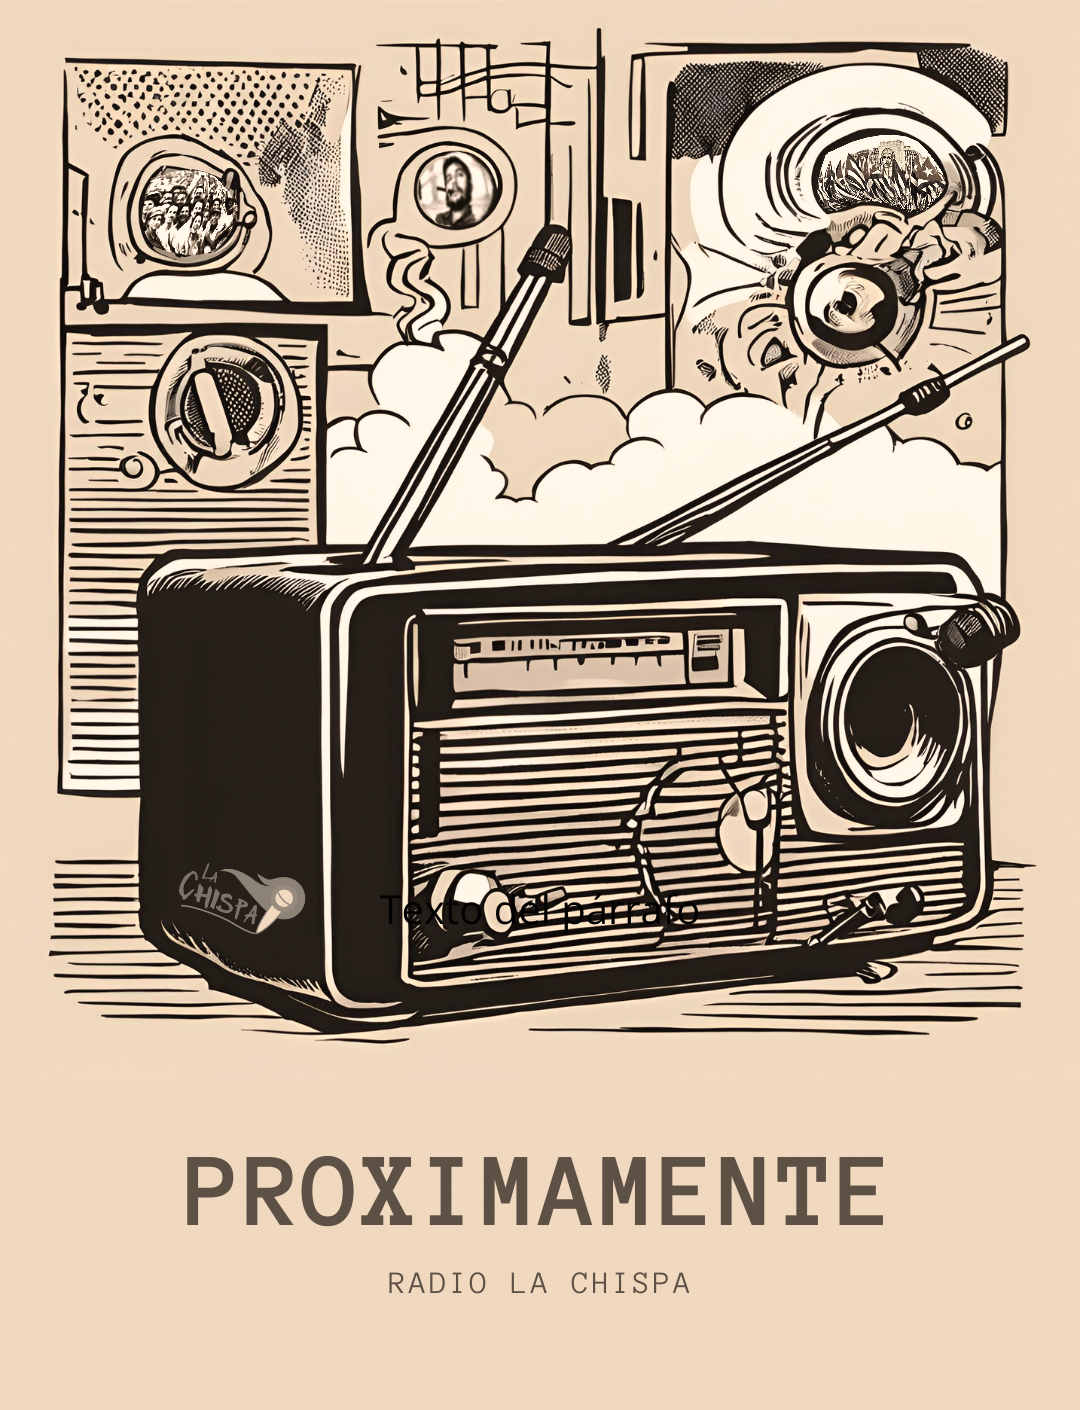
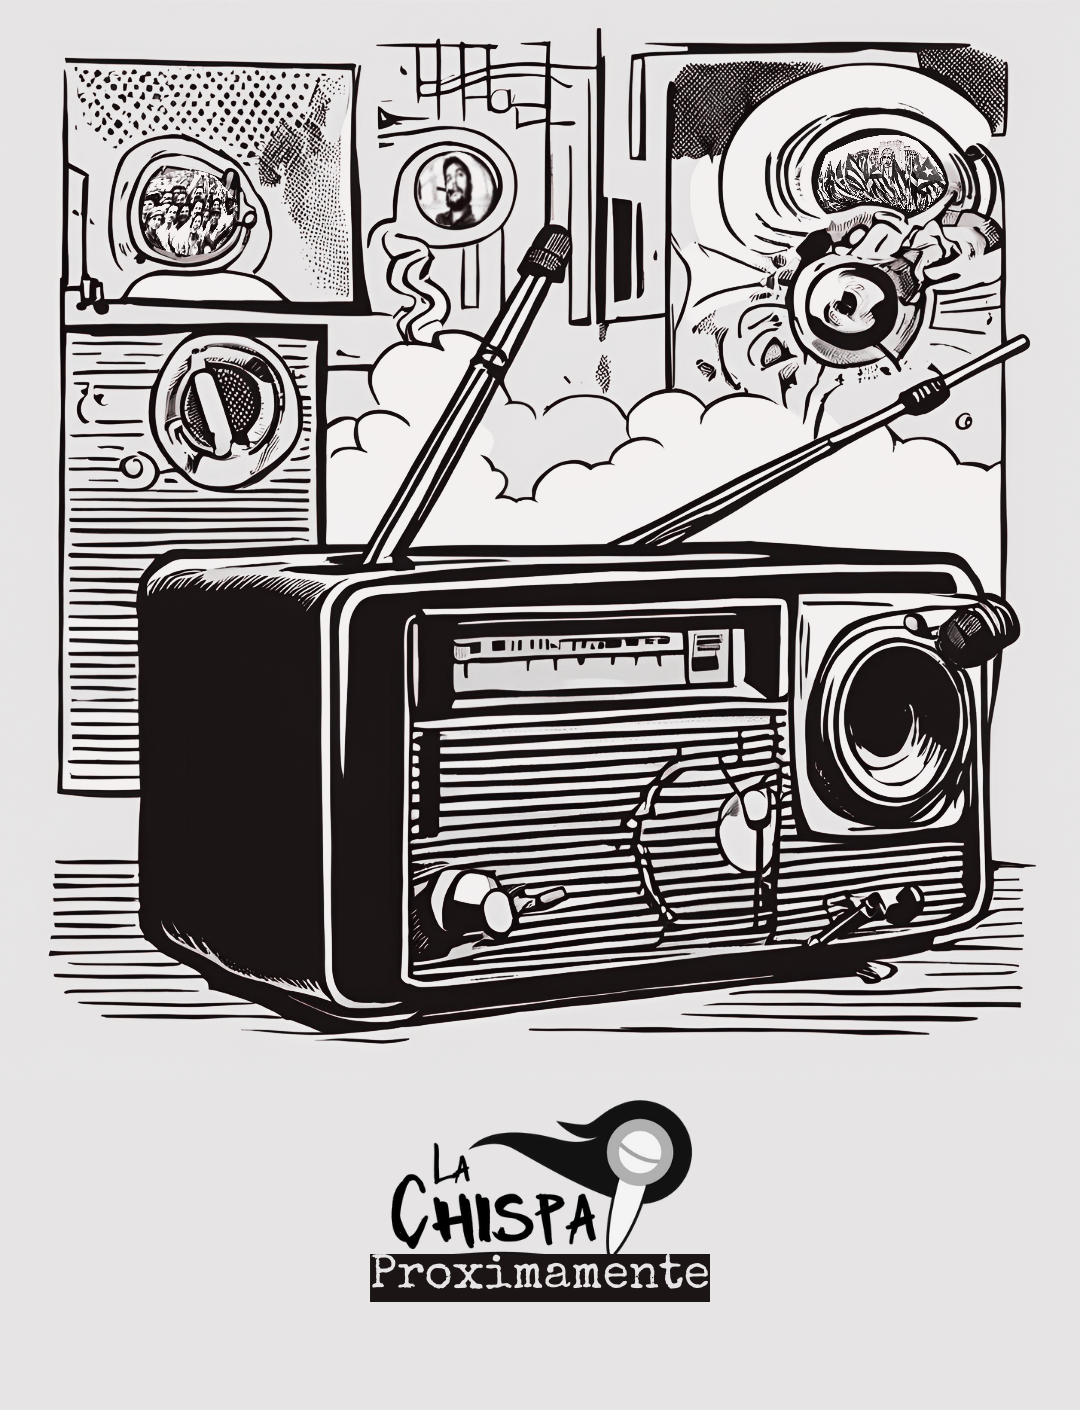
cambios

diff --git a/styles.css b/styles.css
@@ -7,8 +7,10 @@ body, html {
     display: flex;
     align-items: center;
     justify-content: center;
-    background-color: #f1d9bf; /* Cambia el color de fondo según prefieras */
+    background-color: #e6e4e4; /* Cambia el color de fondo según prefieras */
     font-family: 'Roboto', sans-serif; /* Aplicamos la fuente Roboto */
+    background-image: url(fondo.png);
+    background-repeat: no-repeat;
 }
 
 /* Contenedor centrado para la imagen */
@@ -20,7 +22,10 @@ body, html {
     width: 100%;
     max-width: 900px; /* Ajusta el ancho máximo */
     padding: 20px;
+    filter: blur(10%);
+    
 }
+
 
 /* Imagen responsiva */
 .hover-image {
